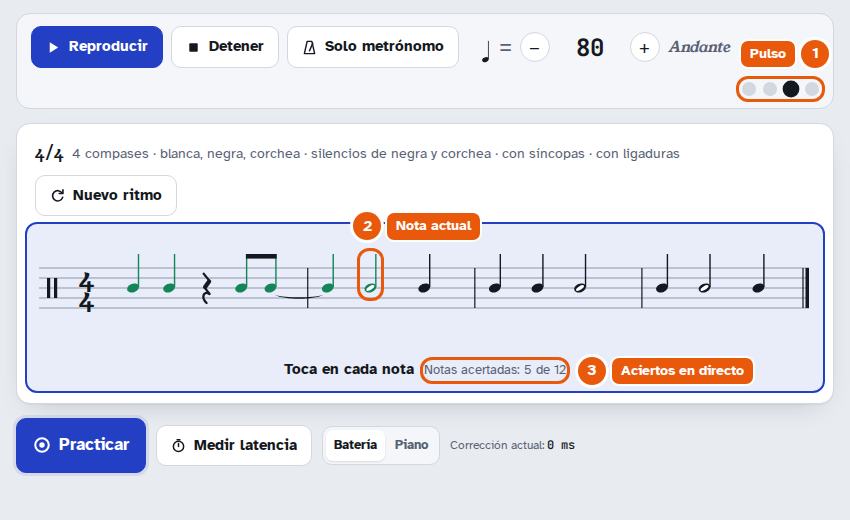
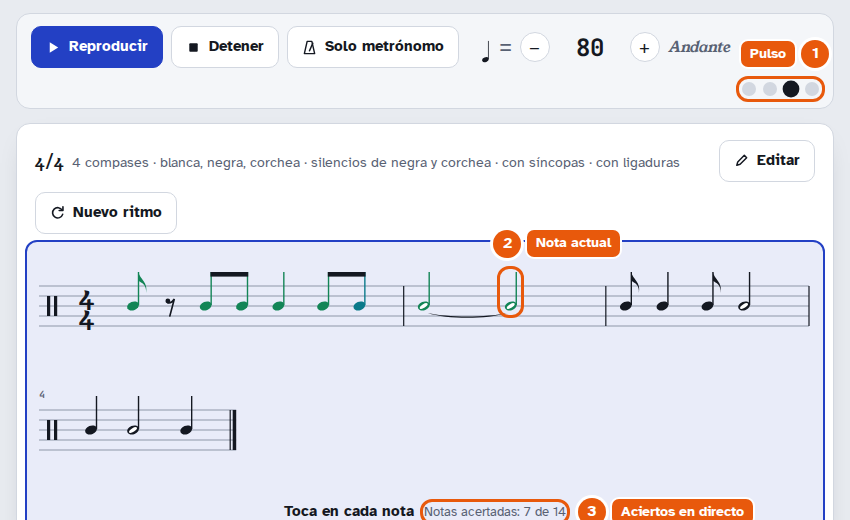
Mis ejercicios: paleta fija en el móvil, bienvenida con las pestañas y capturas nuevas
- En pantallas estrechas, mientras se edita un ejercicio, la paleta (figuras,
  modificadores, deshacer/rehacer/borrar, estado y Practicar) queda fija abajo.
  Se aparta al escribir en un campo, al practicar y con resultados, sin volver
  al flujo para que la página no salte.
- La figura resaltada se mantiene a la vista por encima de la paleta.
- En pantallas táctiles, «Nuevo ejercicio» no abre el teclado.
- La bienvenida presenta Campaña, Mis ejercicios y Mi progreso.
- README: apartado de Mis ejercicios con capturas; capturas rehechas con las
  cuatro pestañas. CLAUDE.md actualizado.

Claude-Session: https://claude.ai/code/session_01KR51CwVVXhtFmUshsMceNd

diff --git a/index.html b/index.html
@@ -40,6 +40,7 @@
           <li>Pulsa <b>Practicar</b> <span class="kb">(<kbd>P</kbd>)</span> o toca la partitura. Tras la cuenta previa, toca en cada nota: con el dedo, el ratón o la barra espaciadora.</li>
           <li>Al terminar verás tu precisión y, bajo cada nota, si llegaste antes o tarde.</li>
         </ol>
+        <p class="hint">En las pestañas de arriba tienes además la <b>Campaña</b> (niveles que se desbloquean con estrellas), <b>Mis ejercicios</b> (escribe tus propios ritmos figura a figura, guárdalos y compártelos con un enlace) y <b>Mi progreso</b> (tu historial de prácticas).</p>
         <p class="hint">Si usas auriculares Bluetooth o notas que siempre te marca «tarde», mide antes la latencia de tu equipo: tarda medio minuto.</p>
         <div class="res-actions">
           <button class="btn primary" id="welCalib" type="button">Medir latencia ahora</button>
@@ -177,19 +178,27 @@
           <div class="field"><label for="ownSig">Compás</label><select id="ownSig"></select></div>
           <div class="field" id="ownGrpF"><label for="ownGrp">Agrupación</label><select id="ownGrp"></select></div>
         </div>
-        <span class="rlabel">Figuras (se añaden tras la resaltada)</span>
-        <div class="pal" id="ownPal" role="group" aria-label="Añadir figura"></div>
-        <div class="pal-mods" id="ownMods" role="group" aria-label="Modificadores para la siguiente figura">
-          <button type="button" data-mod="dot" aria-pressed="false">Puntillo <kbd>.</kbd></button>
-          <button type="button" data-mod="rest" aria-pressed="false">Silencio <kbd>S</kbd></button>
-          <button type="button" data-mod="tie" aria-pressed="false">Ligar <kbd>L</kbd></button>
+        <span class="rlabel pal-lbl">Figuras (se añaden tras la resaltada)</span>
+        <!-- en pantallas estrechas, mientras se edita, este bloque queda fijo abajo (body.dock-on) -->
+        <div class="own-dock" id="ownDock" role="group" aria-label="Paleta de figuras">
+          <div class="pal" id="ownPal" role="group" aria-label="Añadir figura"></div>
+          <div class="dock-row">
+            <div class="pal-mods" id="ownMods" role="group" aria-label="Modificadores para la siguiente figura">
+              <button type="button" data-mod="dot" aria-pressed="false">Puntillo <kbd>.</kbd></button>
+              <button type="button" data-mod="rest" aria-pressed="false">Silencio <kbd>S</kbd></button>
+              <button type="button" data-mod="tie" aria-pressed="false">Ligar <kbd>L</kbd></button>
+            </div>
+            <div class="own-row own-edit">
+              <button class="btn" id="ownUndo" type="button" title="Deshacer (Ctrl+Z)" aria-label="Deshacer"><svg viewBox="0 0 16 16"><path d="M5.5 3L2.5 6l3 3" fill="none" stroke="currentColor" stroke-width="1.7" stroke-linecap="round" stroke-linejoin="round"/><path d="M3 6h6.5a4 4 0 0 1 0 8H7" fill="none" stroke="currentColor" stroke-width="1.7" stroke-linecap="round"/></svg><span>Deshacer</span></button>
+              <button class="btn" id="ownRedo" type="button" title="Rehacer (Ctrl+Y)" aria-label="Rehacer"><svg viewBox="0 0 16 16"><path d="M10.5 3l3 3-3 3" fill="none" stroke="currentColor" stroke-width="1.7" stroke-linecap="round" stroke-linejoin="round"/><path d="M13 6H6.5a4 4 0 0 0 0 8H9" fill="none" stroke="currentColor" stroke-width="1.7" stroke-linecap="round"/></svg><span>Rehacer</span></button>
+              <button class="btn" id="ownDelTok" type="button" title="Borrar la figura resaltada (Retroceso)" aria-label="Borrar figura"><svg viewBox="0 0 16 16"><path d="M6 3h8v10H6L2 8z" fill="none" stroke="currentColor" stroke-width="1.6" stroke-linejoin="round"/><path d="M8 6l4 4M12 6l-4 4" stroke="currentColor" stroke-width="1.6" stroke-linecap="round"/></svg><span>Borrar figura</span></button>
+            </div>
+          </div>
+          <div class="dock-top">
+            <p class="own-status" id="ownStatus" aria-live="polite"></p>
+            <button class="btn primary" id="ownPractice" type="button"><svg viewBox="0 0 16 16"><circle cx="8" cy="8" r="6" fill="none" stroke="currentColor" stroke-width="1.8"/><circle cx="8" cy="8" r="2.4" fill="currentColor"/></svg>Practicar</button>
+          </div>
         </div>
-        <div class="own-row">
-          <button class="btn" id="ownUndo" type="button" title="Ctrl+Z">Deshacer</button>
-          <button class="btn" id="ownRedo" type="button" title="Ctrl+Y">Rehacer</button>
-          <button class="btn" id="ownDelTok" type="button" title="Retroceso">Borrar figura</button>
-        </div>
-        <p class="own-status" id="ownStatus" aria-live="polite"></p>
         <div class="field"><label for="ownText">Notación</label><textarea id="ownText" rows="3" spellcheck="false"></textarea></div>
         <div class="own-row"><button class="btn" id="ownTextApply" type="button">Aplicar texto</button></div>
         <p class="hint">w redonda · h blanca · q negra · e corchea · s semicorchea · t tresillo · «.» detrás = puntillo · «r» delante = silencio · «~» detrás = ligada a la siguiente · «|» separa compases. Ejemplo: <code>q e~ e q q | h. q</code></p>
@@ -1191,10 +1200,20 @@ const fabWanted = () => !!set.fab && touchMQ.matches;
 // En reposo el botón dice «Practicar» (solo si la partitura está a la vista); durante la práctica o la medición, «Toca aquí»
 // Con los resultados a la vista pasa a ser el botón de tres partes (#postFab)
 let padInView=false, postSince=0;
+// Paleta de «Mis ejercicios» fija abajo en pantallas estrechas (panel bajo la partitura) con un ejercicio abierto.
+// Se oculta (sin volver a su sitio en el panel, para que la página no salte) al practicar o reproducir, con resultados
+// o la medición a la vista y mientras se escribe en un campo, para no quedar encima del teclado
+const narrowMQ = matchMedia('(max-width: 920px)');
+let fieldFocus=false;
+const dockWanted = () => narrowMQ.matches && stageMode==='propio' && !!own.cur && !$('#stageView').hidden;
+const dockShown = () => dockWanted() && !S.running && !fieldFocus && $('#results').hidden && $('#calib').hidden;
 function updateFab(){
   const f=$('#tapFab'), fm=$('#fabMain'), pf=$('#postFab'), live=S.running && (S.mode==='practice'||S.mode==='calib');
   const post=fabWanted() && !S.running && !$('#results').hidden && !$('#stageView').hidden;
-  const on=fabWanted() && !post && (live || (!S.running && padInView));
+  const dock=dockShown();
+  document.body.classList.toggle('dock-on',dockWanted()); document.body.classList.toggle('dock-away',!dock);
+  if(dock) document.body.style.setProperty('--dockH',$('#ownDock').offsetHeight+'px');
+  const on=fabWanted() && !post && (live || (!S.running && padInView && !dock));
   if(post){ if(pf.hidden){ pf.hidden=false; postSince=performance.now(); } syncPostFab(); } else pf.hidden=true;
   f.hidden=!on; document.body.classList.toggle('fab-on',on||post); f.classList.toggle('idle',on && !live);
   f.classList.toggle('split',on && live); $('#fabRestart').hidden=!(on && live);
@@ -1215,7 +1234,10 @@ function syncPostFab(){
 function closeResults(){ $('#results').hidden=true; judg=[]; extras=0; extraTks=[]; renderScore(); updateFab(); }
 new IntersectionObserver(es=>{ padInView=es[es.length-1].isIntersecting; updateFab(); }).observe($('#pad'));
 // Alto de la parte inferior de la pantalla que tapa el botón flotante (para el seguimiento de la partitura)
-function fabReserve(){ const f=[$('#tapFab'),$('#postFab')].find(x=>!x.hidden); return f ? innerHeight-f.getBoundingClientRect().top+12 : 8; }
+function fabReserve(){
+  const f=[$('#tapFab'),$('#postFab')].find(x=>!x.hidden) || (dockShown() && $('#ownDock'));
+  return f ? innerHeight-f.getBoundingClientRect().top+12 : 8;
+}
 function showPad(){
   updateFab();
   const p=$('#pad'), r=p.getBoundingClientRect();
@@ -1647,10 +1669,12 @@ function renderOwnStatus(){
   else t=`${bars} ${bars===1?'compás completo':'compases completos'}: listo para practicar.`;
   if(own.toks.length) t += own.cursor===0 ? ' Lo nuevo se añade al principio.' : own.cursor<own.toks.length ? ' Lo nuevo se añade tras la figura resaltada.' : '';
   st.textContent=t;
+  $('#ownPractice').disabled=!own.complete;
+  updateFab();   // el alto de la paleta fija puede cambiar con el texto
 }
 function renderOwnEditor(){
   $('#secEdit').hidden=!own.cur;
-  if(!own.cur) return;
+  if(!own.cur){ updateFab(); return; }
   renderOwnStatus();
   if(document.activeElement!==$('#ownText')) $('#ownText').value=own.cur.notation;
   $('#ownUndo').disabled=!own.undo.length; $('#ownRedo').disabled=!own.redo.length; $('#ownDelTok').disabled=own.cursor<1;
@@ -2126,11 +2150,25 @@ function ownKeys(e){
   return false;
 }
 $('#ownSig').innerHTML=Object.keys(SIGS).map(k=>`<option value="${k}">${k}</option>`).join('');
-$('#ownPal').addEventListener('click',e=>{ const b=e.target.closest('.pal-b'); if(b && !b.disabled) ownInsert(b.dataset.k); });
+// Con la paleta fija abajo, la figura resaltada debe quedar a la vista por encima de ella
+function ownReveal(){
+  if(!dockShown()) return;
+  const el=document.querySelector('#score .ev.sel') || [...document.querySelectorAll('#score .ev')].pop(); if(!el) return;
+  const r=el.getBoundingClientRect(), room=innerHeight-fabReserve();
+  if(r.bottom+40>room) scrollTo({top:scrollY+r.bottom+40-room, behavior:'smooth'});
+  else if(r.top<40) scrollTo({top:scrollY+r.top-40, behavior:'smooth'});
+}
+$('#ownPal').addEventListener('click',e=>{ const b=e.target.closest('.pal-b'); if(b && !b.disabled){ ownInsert(b.dataset.k); ownReveal(); } });
 $('#ownMods').addEventListener('click',e=>{ const b=e.target.closest('button[data-mod]'); if(!b) return; own.mods[b.dataset.mod]=!own.mods[b.dataset.mod]; renderPalette(); });
-$('#ownUndo').addEventListener('click',()=>ownUndoRedo(own.undo,own.redo));
-$('#ownRedo').addEventListener('click',()=>ownUndoRedo(own.redo,own.undo));
-$('#ownDelTok').addEventListener('click',ownDelete);
+$('#ownUndo').addEventListener('click',()=>{ ownUndoRedo(own.undo,own.redo); ownReveal(); });
+$('#ownRedo').addEventListener('click',()=>{ ownUndoRedo(own.redo,own.undo); ownReveal(); });
+$('#ownDelTok').addEventListener('click',()=>{ ownDelete(); ownReveal(); });
+$('#ownPractice').addEventListener('click',()=>start('practice'));
+// Mientras se escribe en un campo (nombre, notación…) la paleta fija se quita, para no tapar ni quedar sobre el teclado
+const isTyping = el => !!el && el.matches && el.matches('input:not([type=checkbox]):not([type=radio]):not([type=range]):not([type=file]),textarea,select');
+document.addEventListener('focusin',e=>{ const f=isTyping(e.target); if(f!==fieldFocus){ fieldFocus=f; updateFab(); } });
+document.addEventListener('focusout',()=>{ setTimeout(()=>{ const f=isTyping(document.activeElement); if(f!==fieldFocus){ fieldFocus=f; updateFab(); } }); });
+narrowMQ.addEventListener('change',updateFab);
 $('#ownName').addEventListener('input',e=>{ if(!own.cur) return; own.cur.name=cleanName(e.target.value); saveOwn(); renderOwnList(); renderSummary(); });
 $('#ownName').addEventListener('change',e=>{ if(own.cur){ uniqueName(own.cur); e.target.value=own.cur.name; saveOwn(); renderOwnList(); renderSummary(); } });
 function ownChangeMeter(sig, grp){
@@ -2153,7 +2191,10 @@ $('#ownNew').addEventListener('click',()=>{
   let n=own.list.length+1; while(own.list.some(y=>y.name===`Ejercicio ${n}`)) n++;
   const base=own.cur||{sig:set.sig, grp:sigOf(set).grp, bpm:set.bpm};
   ownAdd(cleanEx({name:`Ejercicio ${n}`, sig:base.sig, grp:base.grp, bpm:base.bpm, notation:''}));
-  ownMsg(''); $('#ownName').focus(); $('#ownName').select();
+  ownMsg('');
+  // en pantallas táctiles no se enfoca el nombre (abriría el teclado y quitaría la paleta fija): se lleva la vista a la partitura
+  if(touchMQ.matches) $('.score-card').scrollIntoView({block:'start', behavior:'smooth'});
+  else { $('#ownName').focus(); $('#ownName').select(); }
 });
 $('#ownImpBtn').addEventListener('click',()=>{ const b=$('#ownImport'); b.hidden=!b.hidden; $('#ownImpBtn').setAttribute('aria-expanded',String(!b.hidden)); if(!b.hidden) $('#ownImpText').focus(); });
 $('#ownImpCancel').addEventListener('click',()=>{ $('#ownImport').hidden=true; $('#ownImpBtn').setAttribute('aria-expanded','false'); $('#ownImpText').value=''; $('#ownImpFile').value=''; });

diff --git a/styles.css b/styles.css
@@ -365,4 +365,27 @@ body.fab-on{padding-bottom:140px}
 .own-out{color:var(--muted)}
 .hint code{font-family:var(--mono);font-size:11px;background:var(--panel);border:1px solid var(--line);border-radius:4px;padding:0 4px}
 .evhit{fill:transparent}
+.own-dock{display:flex;flex-direction:column;gap:10px}
+.dock-row{display:flex;flex-direction:column;gap:10px}
+.dock-top{display:flex;align-items:center;gap:10px}
+#ownPractice{display:none;flex:none}
+body.dock-on #ownPractice{display:inline-flex;min-height:40px}
+body.dock-on .dock-top{order:-1}
+/* paleta fija abajo en pantallas estrechas mientras se edita (la pone updateFab con body.dock-on) */
+body.dock-on{padding-bottom:calc(var(--dockH,200px) + 24px)}
+body.dock-on .pal-lbl{display:none}
+body.dock-on .own-dock{position:fixed;z-index:50;left:50%;transform:translateX(-50%);bottom:0;width:min(560px,100vw);gap:8px;padding:10px 12px calc(10px + env(safe-area-inset-bottom));background:var(--panel);border:1px solid var(--line);border-bottom:0;border-radius:16px 16px 0 0;box-shadow:0 -8px 24px rgba(20,24,33,.18);animation:dockin .2s ease-out}
+body.dock-on .own-dock .own-status{flex:1 1 auto;font-size:12px;line-height:1.3;color:var(--muted)}
+body.dock-on .dock-row{flex-direction:row;gap:6px}
+body.dock-on .pal-mods{flex:1 1 auto;flex-wrap:nowrap;gap:4px}
+body.dock-on .pal-mods button{min-height:44px;padding:0 4px;font-size:12px}
+body.dock-on .own-edit{flex-wrap:nowrap;gap:4px}
+body.dock-on .own-edit .btn{min-width:44px;min-height:44px;padding:0;justify-content:center}
+body.dock-on .own-edit .btn span{display:none}
+body.dock-on .own-edit .btn svg{margin:0;width:19px;height:19px}
+body.dock-on .pal-b{min-height:48px}
+body.dock-on .own-dock kbd{display:none}
+body.dock-on.dock-away .own-dock{visibility:hidden;transform:translateX(-50%) translateY(110%);animation:none}
+@keyframes dockin{from{opacity:0;transform:translateX(-50%) translateY(10px)}to{opacity:1;transform:translateX(-50%)}}
+@media (prefers-reduced-motion: reduce){ body.dock-on .own-dock{animation:none} }
 @media (max-width:520px){ .tabs{display:grid;grid-template-columns:1fr 1fr} }

diff --git a/CLAUDE.md b/CLAUDE.md
@@ -40,13 +40,13 @@ Nació como un Artifact publicado en claude.ai. Allí el progreso se guardaba en
 
 **Accesibilidad:** `say(texto)` escribe en `#srLive` (`aria-live`, oculto con `.sr-only`) el inicio de la práctica y de la medición, el resultado, la latencia sugerida, el cambio de nivel y las confirmaciones. Al terminar, el foco va a `#results` o `#calib` (`tabindex=-1`, sin aro). Las pestañas siguen el patrón ARIA (`tabindex` itinerante, `aria-controls`, `role=tabpanel`). Al pedir confirmación (borrar historial, restablecer) el foco va a «Cancelar» y luego vuelve al botón original.
 
-**Avisos y primera vez:** `appWarn('store'|'audio')` muestra `#appWarn` si `localStorage.setItem` falla (en `save()` y `commitProg()`) o si no se puede crear el `AudioContext` (`ensureAudio()` devuelve `false` y `start`/`startCalib` no siguen). La tarjeta `#welcome` sale si `!set.seen` y no hay sesiones; se cierra con «Entendido», «Medir latencia ahora» o al terminar la primera práctica (`dismissWelcome`).
+**Avisos y primera vez:** `appWarn('store'|'audio')` muestra `#appWarn` si `localStorage.setItem` falla (en `save()` y `commitProg()`) o si no se puede crear el `AudioContext` (`ensureAudio()` devuelve `false` y `start`/`startCalib` no siguen). La tarjeta `#welcome` (pasos para practicar y presentación de las pestañas Campaña, Mis ejercicios y Mi progreso) sale si `!set.seen` y no hay sesiones; se cierra con «Entendido», «Medir latencia ahora» o al terminar la primera práctica (`dismissWelcome`).
 
 **Panel:** Reproducción, Metrónomo y Práctica son `<details class="fold" data-fold="…">`. Abiertos por defecto en pantallas de más de 920 px y plegados en las estrechas; `set.folds` solo guarda lo que el usuario cambia respecto a ese valor por defecto. «Restablecer ajustes» vuelve a `freshSettings()` conservando `offset`, `view`, `level`, `levelId` y `seen`. En pantallas táctiles, `.step` mide 44 px y `set.vibrate` (si existe `navigator.vibrate`) vibra 12 ms en cada toque de puntero durante la práctica o la medición. Sin puntero fino se ocultan los atajos de teclado (`.keys`, `.kb`). En la campaña, `#tLock` («Fijado por el nivel») acompaña al tempo deshabilitado.
 
-**Mis ejercicios** (pestaña `propio`, `stageMode==='propio'`): un ejercicio es `{id, name, sig, grp, bpm, notation, created, updated}` y se guarda en `localStorage` (`solfeo-ritmico-ejercicios-v1`); `set.ownId` recuerda el abierto. Al editar se trabaja con **tokens** `{dur, rest, tie}` (tie = ligada a la siguiente) o `{trip:true}` (tresillo de corcheas, 12 ticks). `reflow(toks, ex)` los reparte en compases: la nota que cruza la barra se parte en notas ligadas (`decomp` con `NOTE_DURS`), el silencio en silencios (`REST_DURS`); el tresillo solo en compases simples y empezando en un tiempo; quita ligaduras hacia silencios o tresillos; máximo 64 compases. Devuelve también `map` (índice de cada token de entrada en la salida) para colocar el cursor. Notación de texto (`parseNotation` / `serialize`): `w h q e s`, `.` puntillo, `r` silencio, `~` ligadura, `t` tresillo, `|` compás (si aparece, cada compás debe sumar exacto); el único silencio con puntillo es `rq.`. `generate()` en esta pestaña llama a `buildOwn()`, que arma `score` con la misma estructura que los ritmos generados (`ownScore`: celdas por grupo del compás para las barras, `score.own=true`), así que reproducción, práctica, resultados y compás más flojo funcionan igual. `measInner` reserva el hueco del último compás si está a medias. Practicar exige compases completos (`own.complete`; `start` lo comprueba y `updateTransport` deshabilita el botón). Clic en una figura (`.evhit`, zona de toque ampliada) la selecciona (`own.cursor` = token siguiente; `markSel` pinta `.sel`); las teclas del editor van en `ownKeys` antes del resto. Cada cambio pasa por `ownApply` (deshacer hasta 100 pasos) y `ownCommit` (guarda). Exportar: `.json` `{formato:'solfeo-ritmico-ejercicios', version:1, ejercicios:[{nombre, compas, agrupacion?, tempo, notacion}]}`, texto de tres líneas (`exText`) y enlace `#ej=` + base64url de `1\nnombre\ncompás (grupo)\ntempo\nnotación` (`exLink`; tope `LINK_MAX` = 2000 caracteres). `importAny` acepta los tres y lo valida todo (`cleanEx`, `fromFields`; errores `OwnError` con mensaje para el usuario); `ownFromHash` abre un enlace al cargar o en `hashchange` y lo guarda sin duplicar. Los nombres se escapan (`esc`) al ir en HTML. Las sesiones llevan `mode:'propio'`, `ex` (id) y `exn` (nombre); filtro «Propios» en Mi progreso. `editThis()` (botón «Editar» en Práctica libre y campaña) copia el ritmo actual (`scoreToToks`).
+**Mis ejercicios** (pestaña `propio`, `stageMode==='propio'`): un ejercicio es `{id, name, sig, grp, bpm, notation, created, updated}` y se guarda en `localStorage` (`solfeo-ritmico-ejercicios-v1`); `set.ownId` recuerda el abierto. Al editar se trabaja con **tokens** `{dur, rest, tie}` (tie = ligada a la siguiente) o `{trip:true}` (tresillo de corcheas, 12 ticks). `reflow(toks, ex)` los reparte en compases: la nota que cruza la barra se parte en notas ligadas (`decomp` con `NOTE_DURS`), el silencio en silencios (`REST_DURS`); el tresillo solo en compases simples y empezando en un tiempo; quita ligaduras hacia silencios o tresillos; máximo 64 compases. Devuelve también `map` (índice de cada token de entrada en la salida) para colocar el cursor. Notación de texto (`parseNotation` / `serialize`): `w h q e s`, `.` puntillo, `r` silencio, `~` ligadura, `t` tresillo, `|` compás (si aparece, cada compás debe sumar exacto); el único silencio con puntillo es `rq.`. `generate()` en esta pestaña llama a `buildOwn()`, que arma `score` con la misma estructura que los ritmos generados (`ownScore`: celdas por grupo del compás para las barras, `score.own=true`), así que reproducción, práctica, resultados y compás más flojo funcionan igual. `measInner` reserva el hueco del último compás si está a medias. Practicar exige compases completos (`own.complete`; `start` lo comprueba y `updateTransport` deshabilita el botón). Clic en una figura (`.evhit`, zona de toque ampliada) la selecciona (`own.cursor` = token siguiente; `markSel` pinta `.sel`); las teclas del editor van en `ownKeys` antes del resto. Cada cambio pasa por `ownApply` (deshacer hasta 100 pasos) y `ownCommit` (guarda). Exportar: `.json` `{formato:'solfeo-ritmico-ejercicios', version:1, ejercicios:[{nombre, compas, agrupacion?, tempo, notacion}]}`, texto de tres líneas (`exText`) y enlace `#ej=` + base64url de `1\nnombre\ncompás (grupo)\ntempo\nnotación` (`exLink`; tope `LINK_MAX` = 2000 caracteres). `importAny` acepta los tres y lo valida todo (`cleanEx`, `fromFields`; errores `OwnError` con mensaje para el usuario); `ownFromHash` abre un enlace al cargar o en `hashchange` y lo guarda sin duplicar. Los nombres se escapan (`esc`) al ir en HTML. Las sesiones llevan `mode:'propio'`, `ex` (id) y `exn` (nombre); filtro «Propios» en Mi progreso. `editThis()` (botón «Editar» en Práctica libre y campaña) copia el ritmo actual (`scoreToToks`). **Paleta fija en el móvil:** `#ownDock` (paleta, modificadores, deshacer/rehacer/borrar, estado y `#ownPractice`, que solo se ve así) queda fijo abajo con `body.dock-on` cuando `dockWanted()` (≤ 920 px, `propio`, ejercicio abierto, vista de práctica). Se oculta con `dock-away` (sin volver al flujo, para que la página no salte bajo el dedo) si `!dockShown()`: practicando o reproduciendo, con resultados o medición a la vista, o con el foco en un campo de texto (`fieldFocus`, por `focusin/focusout`, para no quedar sobre el teclado). Lo gestiona `updateFab()`, que entonces no muestra «Practicar» flotante en reposo; `--dockH` da el hueco inferior y `fabReserve()` lo descuenta. `ownReveal()` desplaza la página para que la figura resaltada quede por encima de la paleta. En pantallas táctiles «Nuevo ejercicio» no enfoca el nombre (abriría el teclado): lleva la vista a la partitura.
 
-**Capturas del README:** están en `docs/capturas/` (las seis numeradas de la pantalla principal y los modos, y las descriptivas de bienvenida, opciones, ejemplo de ritmo, compás más flojo, modo piano, latencia, nivel superado, móvil en reposo y móvil al terminar (`movil-resultado.png`); todas salvo la de bienvenida con `seen:true` para que no salga la tarjeta), hechas con Playwright (Chromium) a 1200 px (y 390 px ×2 las de móvil), con datos de ejemplo y marcadores numerados añadidos al DOM solo para la captura. Si cambia la interfaz, conviene rehacerlas.
+**Capturas del README:** están en `docs/capturas/` (las seis numeradas de la pantalla principal y los modos, y las descriptivas de bienvenida, opciones, ejemplo de ritmo, compás más flojo, modo piano, latencia, nivel superado, móvil en reposo, móvil al terminar (`movil-resultado.png`), Mis ejercicios (`mis-ejercicios.png`) y su paleta fija en el móvil (`movil-ejercicios.png`); todas salvo la de bienvenida con `seen:true` para que no salga la tarjeta), hechas con Playwright (Chromium) a 1200 px (y 390 px ×2 las de móvil), con datos de ejemplo y marcadores numerados añadidos al DOM solo para la captura. Si cambia la interfaz, conviene rehacerlas.
 
 ## Convenciones y decisiones
 

diff --git a/README.md b/README.md
@@ -14,6 +14,7 @@ Genera ritmos en partitura según el compás y las figuras que elijas, los repro
 - **Resultados sobre la partitura:** cada nota muestra tu desvío, las notas sin tocar se marcan con una ✕ y los golpes de más con un triángulo en el lugar donde tocaste.
 - **Medición de latencia:** calcula la corrección para tu equipo, por ejemplo con auriculares Bluetooth.
 - **Campaña:** 29 niveles en 6 capítulos, del pulso en negras a las síncopas, las ligaduras y los compases de amalgama, con estrellas y desbloqueo progresivo.
+- **Mis ejercicios:** escribe tus propios ritmos figura a figura (o con una notación de texto), guárdalos y compártelos como archivo, texto o enlace.
 - **Mi progreso:** historial de prácticas, gráfica de precisión y comparación con las prácticas anteriores.
 - **Pensada también para el móvil:** la página sigue a la partitura mientras suena y, en pantallas táctiles, hay un botón flotante para tocar sin miedo a equivocarte de sitio.
 
@@ -25,7 +26,7 @@ Abre `index.html` en el navegador (junto a `styles.css`, en la misma carpeta). N
 
 ### 1. La pantalla principal
 
-La primera vez, una tarjeta explica cómo se practica:
+La primera vez, una tarjeta explica cómo se practica y presenta las demás pestañas (*Campaña*, *Mis ejercicios* y *Mi progreso*):
 
 ![Tarjeta de bienvenida de la primera vez](docs/capturas/bienvenida.png)
 
@@ -36,7 +37,7 @@ Después, la pantalla principal queda así:
 
 ![Pantalla principal con las partes numeradas](docs/capturas/1-pantalla-principal.png)
 
-1. **Modo:** *Práctica libre* (tú eliges todo), *Campaña* (niveles guiados) o *Mi progreso*.
+1. **Modo:** *Práctica libre* (tú eliges todo), *Campaña* (niveles guiados), *Mis ejercicios* (ritmos que escribes tú) o *Mi progreso*.
 2. **Compás y opciones del ritmo:** en el panel de la derecha (debajo, en el móvil). Se explican en el apartado siguiente.
 3. **Tempo:** con − / +, escribiendo el número o marcándolo con toques.
 4. **Reproducir:** hace sonar el ritmo con el metrónomo para que lo oigas antes de practicarlo. *Nuevo ritmo* (o la tecla <kbd>N</kbd>) genera otro.
@@ -150,10 +151,22 @@ Al cambiar de nivel, la partitura se centra en la pantalla.
 
 Para escribir tus propios ejercicios, guardarlos y compartirlos.
 
+![Mis ejercicios: lista, paleta de figuras, figura seleccionada, notación de texto y botones para compartir](docs/capturas/mis-ejercicios.png)
+
+1. **Tus ejercicios:** la lista, con su compás, compases, tempo y tu mejor resultado (o *borrador* si falta completarlo).
+2. **Paleta:** figuras, *Puntillo*, *Silencio* y *Ligar*, deshacer, rehacer y borrar.
+3. **Figura seleccionada:** tócala en la partitura; lo nuevo se añade detrás.
+4. **Notación de texto:** el mismo ejercicio escrito con letras; se puede editar y aplicar.
+5. **Compartir:** archivo .json, texto o enlace.
+
 - **Crear:** *Nuevo ejercicio*, o *Editar* sobre un ritmo de Práctica libre o de la campaña para copiarlo y cambiarlo. Eliges nombre, compás (y agrupación en amalgama); el tempo se guarda con cada ejercicio.
 - **Escribir figuras:** con la paleta (redonda, blanca, negra, corchea, semicorchea y tresillo, más *Puntillo*, *Silencio* y *Ligar*) o con el teclado: <kbd>1</kbd> <kbd>2</kbd> <kbd>4</kbd> <kbd>8</kbd> <kbd>6</kbd> para las figuras, <kbd>T</kbd> tresillo, <kbd>.</kbd> puntillo, <kbd>S</kbd> silencio, <kbd>L</kbd> ligadura, <kbd>Retroceso</kbd> borra, flechas para moverte, <kbd>Ctrl</kbd>+<kbd>Z</kbd> / <kbd>Ctrl</kbd>+<kbd>Y</kbd> deshacer y rehacer. Toca una figura de la partitura para seleccionarla: lo nuevo se añade detrás.
 - **Compases:** si una nota no cabe en el compás, se parte sola con una ligadura (un silencio, en silencios). Para practicar, todos los compases deben estar completos; mientras tanto el ejercicio queda como *borrador*.
 - **Notación de texto:** también puedes escribirlo directamente: `w` redonda, `h` blanca, `q` negra, `e` corchea, `s` semicorchea, `t` tresillo; `.` detrás para el puntillo, `r` delante para el silencio, `~` detrás para ligar con la siguiente y `|` entre compases. Por ejemplo: `q e~ e q q | h. q`.
+- **En el móvil:** mientras editas, la paleta queda fija abajo de la pantalla, con el estado del compás y un botón *Practicar*, para escribir sin desplazarte hasta el panel. Se aparta al escribir en un campo (nombre, notación), al practicar y con los resultados a la vista.
+
+  <img src="docs/capturas/movil-ejercicios.png" alt="Móvil editando un ejercicio con la paleta fija abajo" width="260">
+
 - **Guardar:** cada cambio se guarda solo en el navegador. Las prácticas aparecen en *Mi progreso* con el nombre del ejercicio (filtro *Propios*) y no dan estrellas.
 - **Compartir:** *Descargar .json* (o *Exportar todos*), *Copiar texto* (nombre, compás y tempo, y la notación) o *Copiar enlace*. *Importar* acepta los tres: un archivo, el texto pegado o el enlace; al abrir un enlace, el ejercicio se añade a tu lista. El enlace lleva el ejercicio dentro y solo usa caracteres que no cortan los navegadores ni WhatsApp; si pasa de 2000 caracteres (unos 40 compases muy densos), la app propone el archivo o el texto.
 
@@ -182,6 +195,8 @@ En pantallas pequeñas el panel de opciones pasa debajo de la partitura. En móv
 
 Si prefieres tocar sobre la partitura, desactívalo en *Práctica → Botón flotante para tocar*.
 
+En *Mis ejercicios*, mientras editas, en lugar del botón *Practicar* aparece abajo la paleta de figuras (ver el apartado 8).
+
 ### Teclado
 
 - <kbd>P</kbd>: practicar (también <kbd>Espacio</kbd> o <kbd>Enter</kbd> con la partitura enfocada).
@@ -195,7 +210,7 @@ La app anuncia a los lectores de pantalla el inicio de la práctica, el resultad
 
 ### Otros detalles
 
-- **Primera vez:** una tarjeta explica cómo se practica y ofrece medir la latencia. Desaparece al pulsar *Entendido* o al terminar la primera práctica.
+- **Primera vez:** una tarjeta explica cómo se practica, presenta las demás pestañas y ofrece medir la latencia. Desaparece al pulsar *Entendido* o al terminar la primera práctica.
 - **Opciones plegables:** *Reproducción*, *Metrónomo* y *Práctica* se pliegan (en el móvil empiezan plegadas) y la app recuerda cómo las dejaste. Al final del panel, *Restablecer ajustes* vuelve a las opciones iniciales sin tocar tu progreso ni la corrección de latencia.
 - **Avisos:** si el navegador no deja guardar datos (modo privado, almacenamiento lleno) o no puede reproducir audio, aparece un aviso arriba.
 - **En pantallas táctiles** los botones redondos miden 44 px y, si el dispositivo lo permite, cada toque vibra (*Práctica → Vibrar al tocar*).
